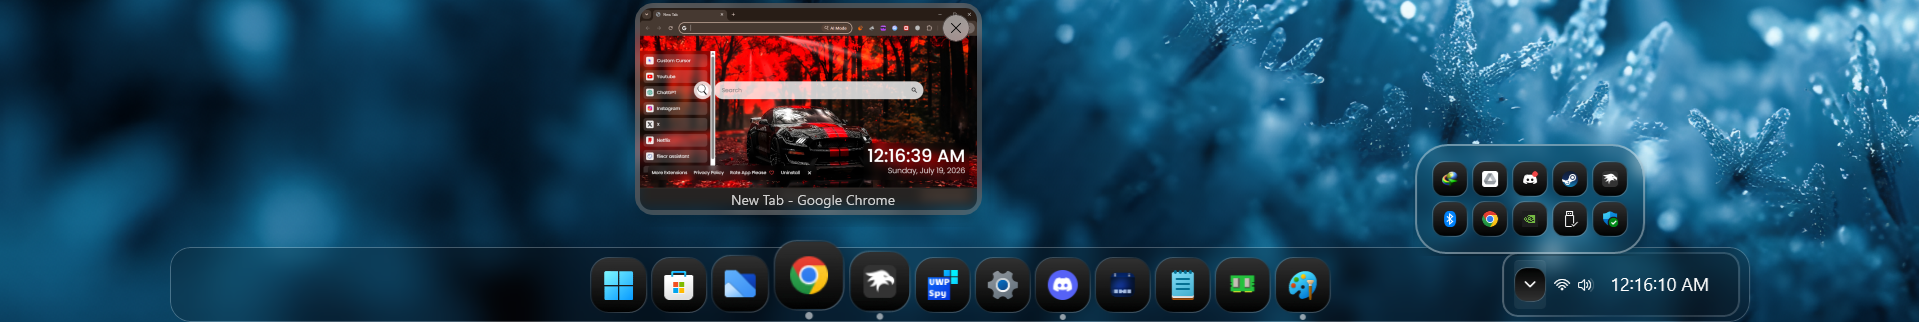
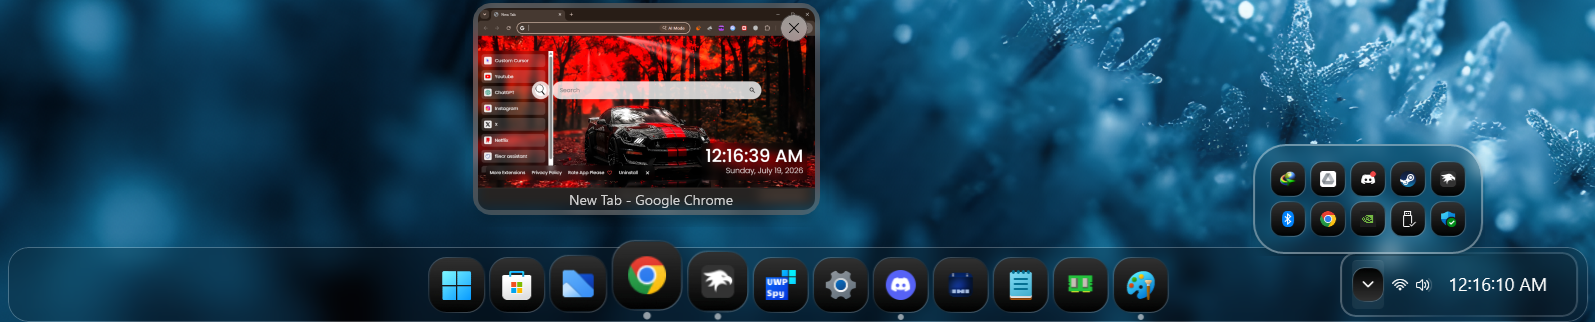
delete island

diff --git a/Themes/OS26 Liquid Glass/README.md b/Themes/OS26 Liquid Glass/README.md
@@ -535,7 +535,7 @@ xamlDiagnosticsHandling: ''
 ```
 
 ## OS26 Liquid Glass (Clear Taskbar) Configuration
-![Preview-taskbar-full](screenshot-taskbar-full.png)
+![Preview-taskbar-full](screenshot-taskbar.png)
 <details>
 <summary>Content to import (click to expand)</summary>
 
@@ -1311,7 +1311,7 @@ xamlDiagnosticsHandling: ''
 </details>
 
 ## OS26 Liquid Glass (Dark Taskbar) Configuration
-![Preview-dark-taskbar-full](screenshot-dark-taskbar-full.png)
+![Preview-dark-taskbar-full](screenshot-dark-taskbar.png)
 <details>
 <summary>Content to import (click to expand)</summary>
 